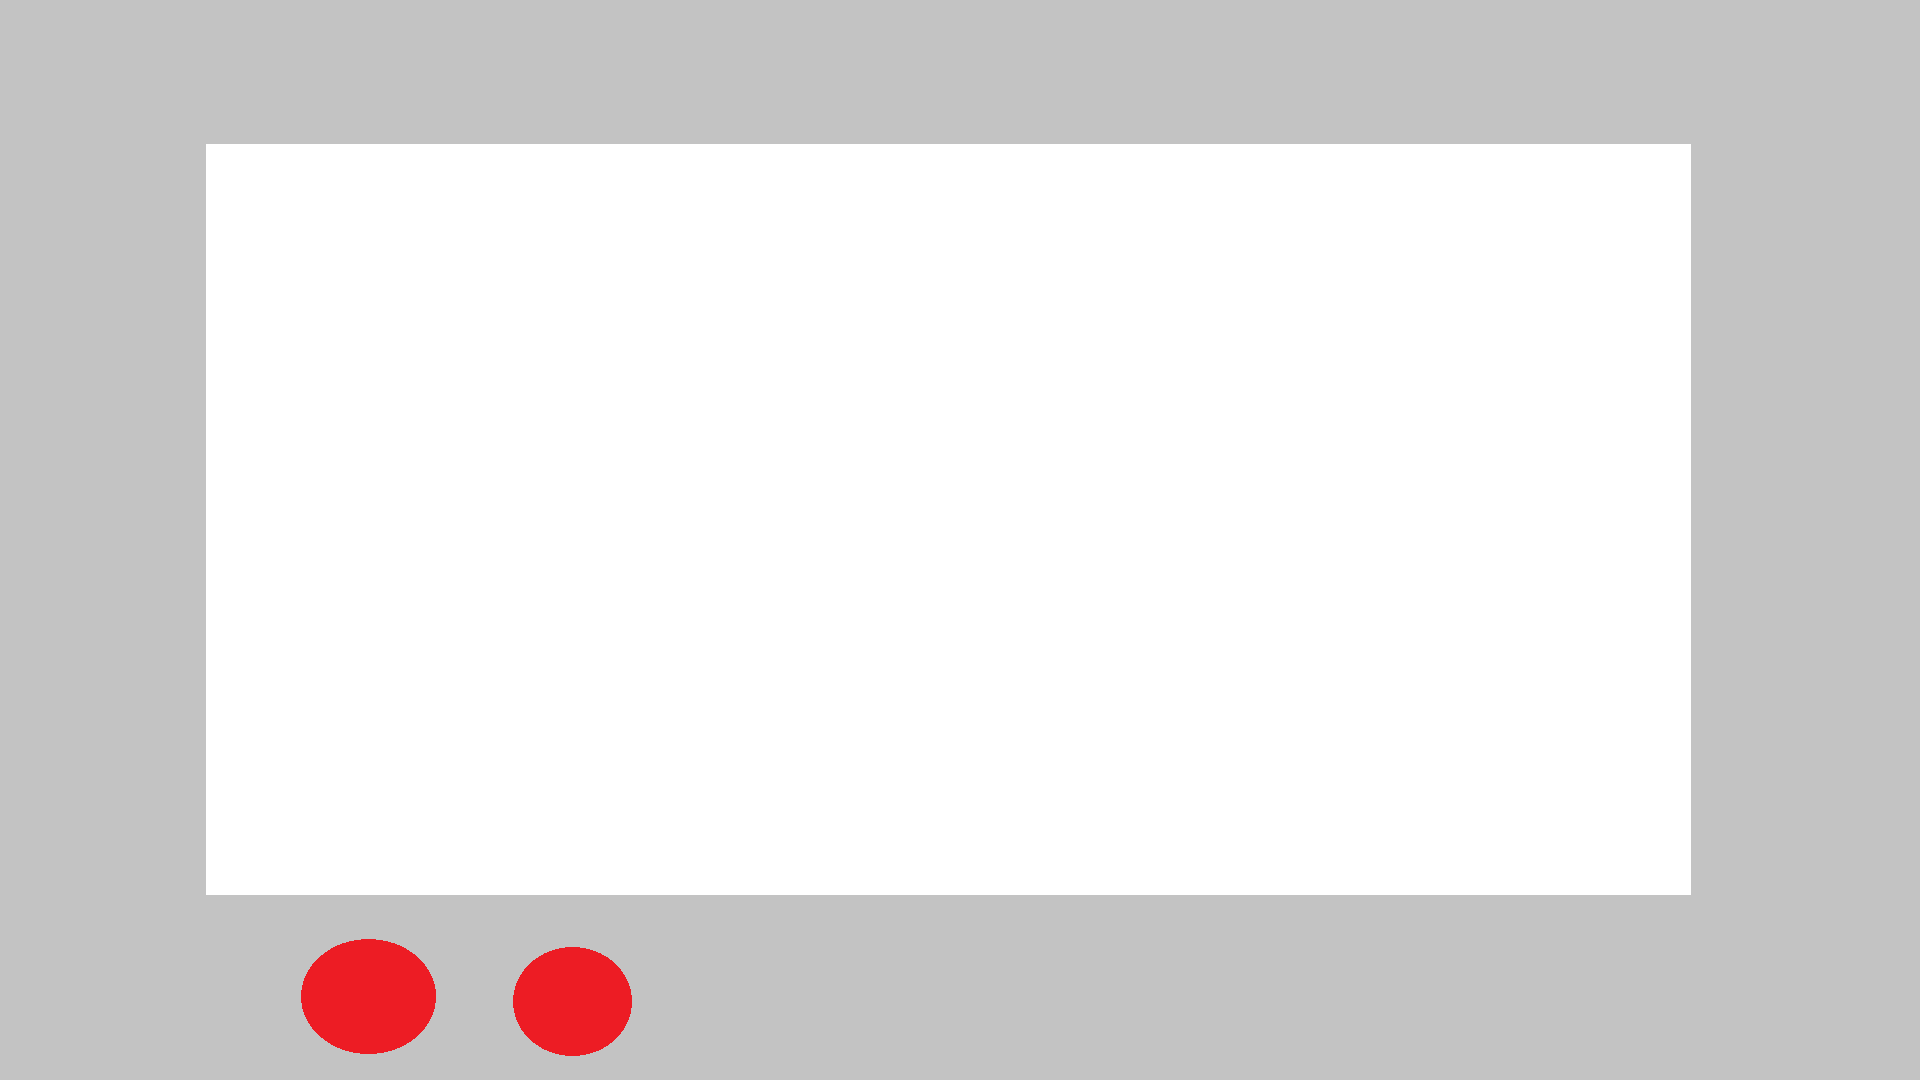
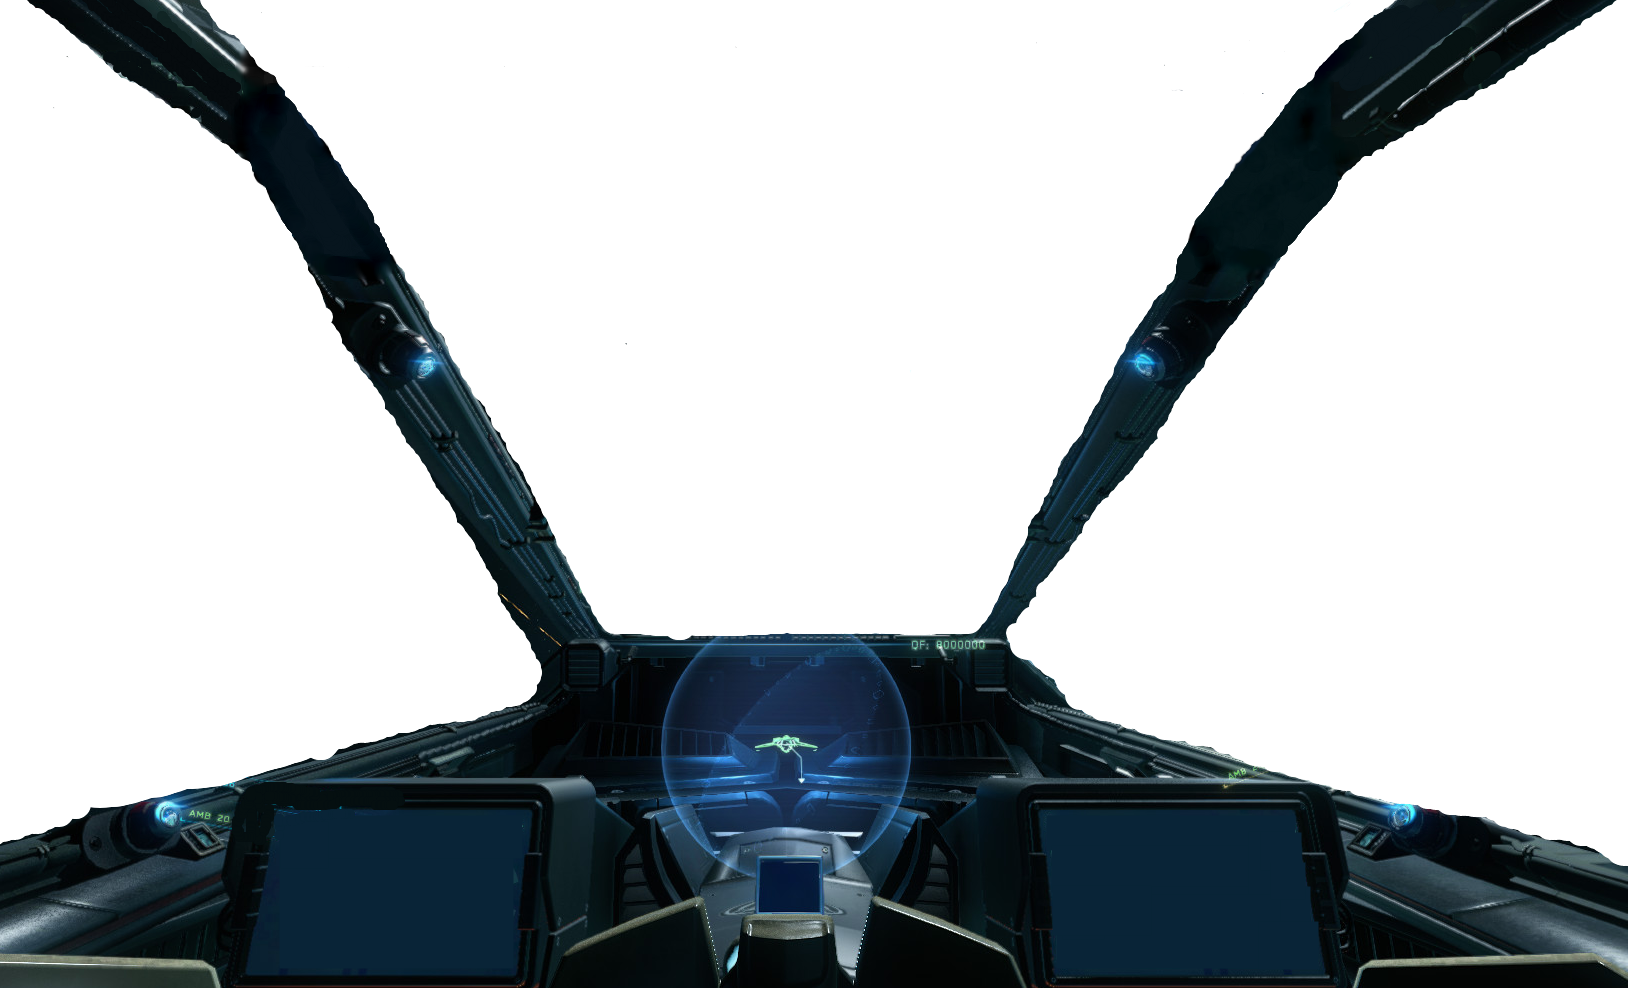
Added working cockpit

diff --git a/view/GLWidget.cpp b/view/GLWidget.cpp
@@ -4,6 +4,7 @@
 #include <QMouseEvent>
 #include <SDL2/SDL.h>
 #include <QtGui/QPainter>
+#include <SOIL.h>
 
 GLWidget::GLWidget(QWidget* parent) : QOpenGLWidget(parent), m_gameOver(false) {}
 
@@ -139,6 +140,7 @@ void GLWidget::paintGL()
 {
     // Clear bg color and enable depth test (z-Buffer)
     glClear(GL_COLOR_BUFFER_BIT | GL_DEPTH_BUFFER_BIT);
+    glEnable(GL_DEPTH_TEST);
 
     m_camera->apply();
 
@@ -153,10 +155,48 @@ void GLWidget::paintGL()
         m_enemy->render();
     }
 
-    // TODO: tut so noch nicht
-//     QPainter qPainter(this);
-//     QPixmap hud("../models/cockpit.png");
-//     qPainter.drawPixmap(0, 0, this->width(), this->height(), hud);
+    glDisable(GL_DEPTH_TEST);
+
+    QPainter painter(this);
+    QPixmap hud("../models/cockpit.png");
+    painter.drawPixmap(0, 0, this->width(), this->height(), hud);
+
+    // paint with OpenGL
+//    glMatrixMode(GL_PROJECTION);
+//    glPushMatrix();
+//    glLoadIdentity();
+//    glOrtho(0.0, this->width(), this->height(), 0.0, -1.0, 10.0);
+//    glMatrixMode(GL_MODELVIEW);
+//    glPushMatrix();
+//    glLoadIdentity();
+//    glDisable(GL_CULL_FACE);
+//    glDisable(GL_DEPTH_TEST);
+//    glDepthMask(GL_FALSE);
+//    glClear(GL_DEPTH_BUFFER_BIT);
+//
+//    int width = this->width();
+//    int height = this->height();
+//    unsigned char* image = SOIL_load_image("../models/cockpit.png", &width, &height, 0, SOIL_LOAD_RGB);
+//    glTexImage2D(GL_TEXTURE_2D, 0, GL_RGB, width, height, 0, GL_RGB, GL_UNSIGNED_BYTE, image);
+//    glColor3f(1.0, 1.0, 1.0);
+//    glBegin(GL_QUADS);
+//    glTexCoord2f(0.0, 1.0);
+//    glVertex2f(0.0, this->height() * 0.7);
+//    glTexCoord2f(1.0, 1.0);
+//    glVertex2f(this->width(), this->height() * 0.7);
+//    glTexCoord2f(1.0, 1.0);
+//    glVertex2f(this->width(), this->height());
+//    glTexCoord2f(0.0, 0.0);
+//    glVertex2f(0.0, this->height());
+//    glEnd();
+//
+////     Making sure we can render 3d again
+//    glMatrixMode(GL_PROJECTION);
+//    glPopMatrix();
+//    glMatrixMode(GL_MODELVIEW);
+//    glPopMatrix();
+//    glEnable(GL_DEPTH_TEST);
+//    glDepthMask(GL_TRUE);
 }
 
 void GLWidget::step(map<Qt::Key, bool>& keyStates)
@@ -164,7 +204,7 @@ void GLWidget::step(map<Qt::Key, bool>& keyStates)
     int elapsed_time = m_timer.restart();
 
     // Get keyboard states and handle model movement
-    m_gameOver = m_physicsEngine->process(elapsed_time);
+    m_gameOver = m_physicsEngine->process(elapsed_time) | m_gameOver;
 
     if (!m_gameOver) {
         Hittable::Ptr player_ptr = std::static_pointer_cast<Hittable>(m_camera);
